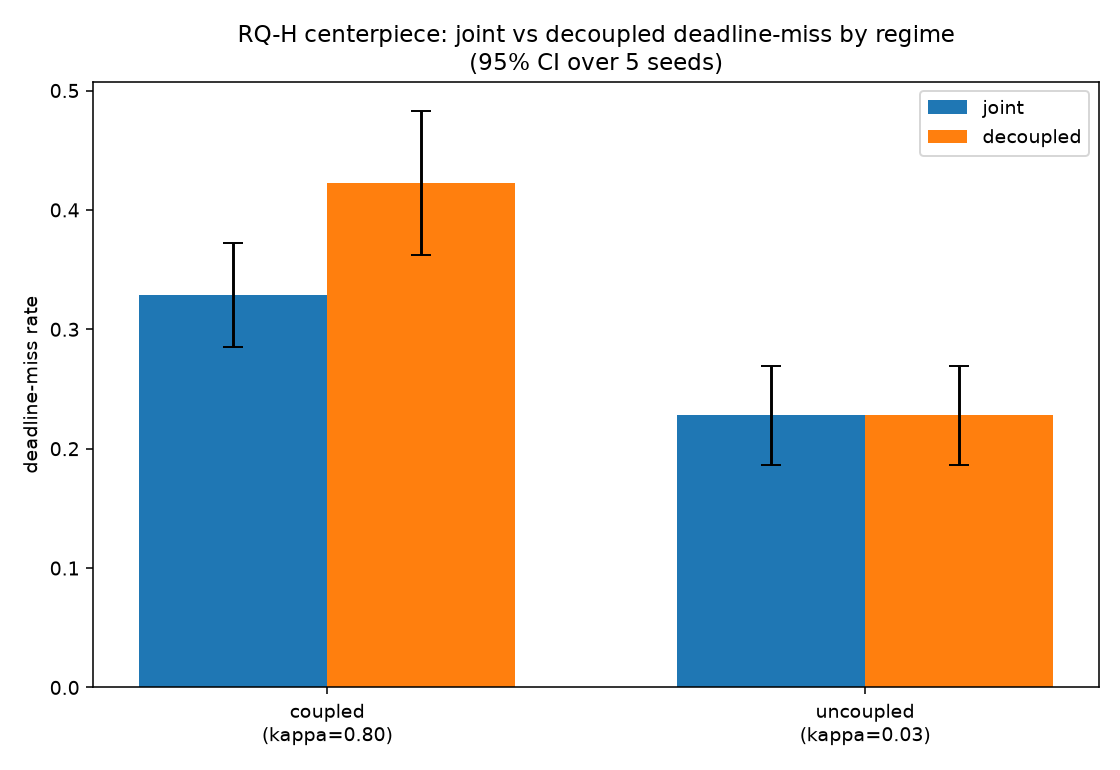
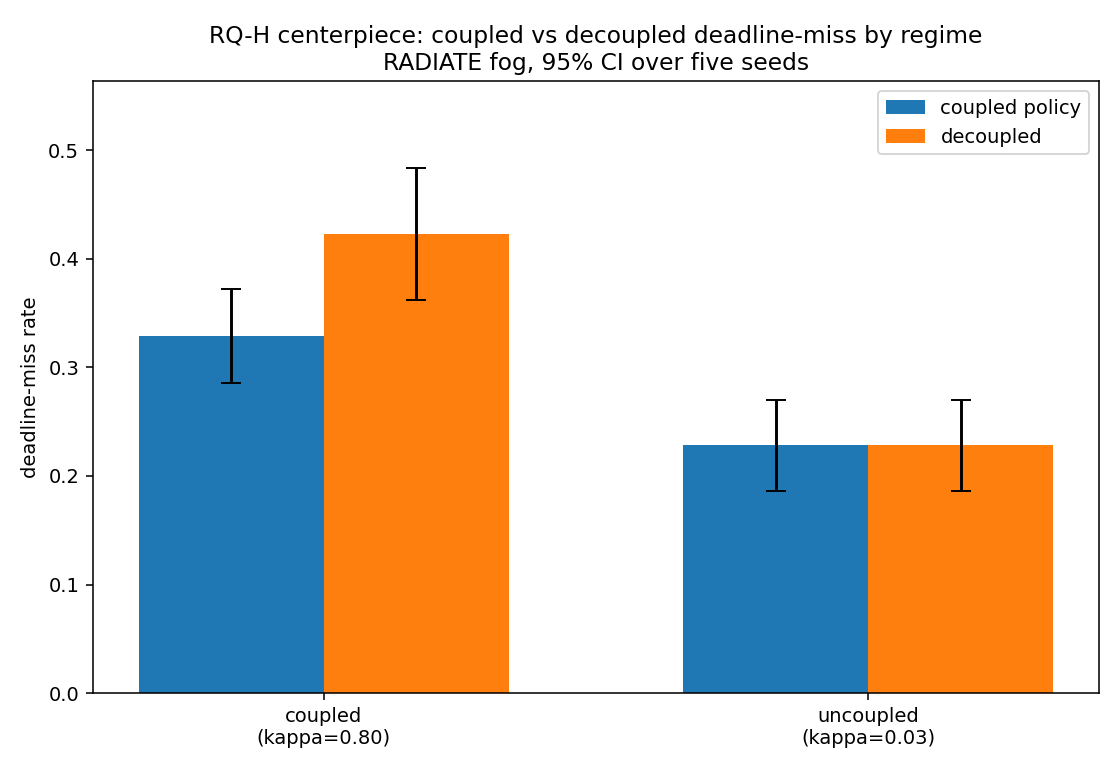
Clarify coupled policy terminology

diff --git a/paper/paper.tex b/paper/paper.tex
@@ -22,8 +22,8 @@
 
 \begin{document}
 
-\title{Belief-Space Perception Routing: Coupling Sensor-Fault\\
-and Compute-Contention Beliefs under Inference Deadlines}
+\title{Coupled Belief-Space Routing for Sensor Faults and\\
+Compute Contention under Inference Deadlines}
 
 \author{
   \IEEEauthorblockN{Sparsh Roy}
@@ -59,7 +59,7 @@ inference configuration.
 We evaluate on three real datasets and two camera geometries:
 TartanDrive off-road driving, RADIATE rain/snow/fog/night, and
 WoodScape fisheye soiling, with five seeds and 95\% confidence
-intervals. When faults and contention are coupled, the joint router
+intervals. Under the imposed coupled regimes, the coupled router
 reduces deadline misses by $1.1$ to $9.4$ percentage points,
 significant in five of six fault-bearing conditions. Fog is the
 largest case: faults are rare, but severe enough to make the
@@ -70,7 +70,8 @@ about as well as the noisy-OR policy, which places the contribution
 in the coupling signal rather than its functional form. Experiments
 ran on an Apple~M5; since the deadline is calibrated per device, we
 report relative deadline-miss changes rather than absolute latency.
-Code and data are released.%
+Code, configurations, processed outputs, and data-acquisition
+instructions are released.%
 \footnote{Repository: \url{https://github.com/VihanAggarwal/belief-space-perception-routing}}
 \end{abstract}
 
@@ -127,7 +128,7 @@ data loading, belief estimation, routing, and statistical analysis.
 
 The main result is shown in Fig.~\ref{fig:summary}. When sensor
 fault and compute contention are coupled, modeling the link reduces
-deadline misses. The size of the reduction follows how much the
+deadline misses. The size of the reduction appears to follow how much the
 degradation stresses the deadline, not simply how often faults
 occur. Fog is the clearest example: only $1.9\%$ of frames are
 faulted, but those episodes are severe enough that coupling saves
@@ -145,15 +146,16 @@ night, but hurts the fast flicker of rain droplets.
   \centering
   \includegraphics[width=\columnwidth]{fig_rqh_summary.png}
   \caption{Headline result (RQ-H). Reduction in deadline-miss rate
-  of the joint policy over the decoupled baseline, by condition,
+  of the coupled policy over the decoupled baseline, by condition,
   with 95\% CIs over five seeds. Filled circles: coupled regime,
   CI excludes zero. Square: coupled but not significant (snow).
   Grey crosses: the matched uncoupled control, exactly $0.0$\,pp in
   every case. TartanDrive appears twice: the full trajectory (no
   natural faults) is a clean negative control at $0.0$\,pp, while
   its high-degradation off-road segment is a significant $+3.0$\,pp.
-  The benefit tracks fault severity, not frequency: fog has the
-  fewest faults yet the largest effect.}
+  The condition-level pattern is more consistent with
+  deadline-binding degradation severity than with fault frequency
+  alone.}
   \label{fig:summary}
 \end{figure}
 
@@ -208,7 +210,7 @@ for embedded radar. These methods adapt computation, but they do
 not model runtime contention as a latent state tied to sensor
 health.
 
-\subsection{Joint Fault and Resource Modeling}
+\subsection{Coupled Fault and Resource Modeling}
 
 PRAM-R \cite{pramr2025} is the closest concurrent work: it routes
 modalities with an LLM-guided reliability mechanism, but it does not
@@ -382,7 +384,7 @@ they form the contention probability $p_{\text{cont}}^t$:
 \textbf{Decoupled}: $p_{\text{cont}}^t = b_c^t$ (compute belief
 alone).
 
-\textbf{Joint} (noisy-OR):
+\textbf{Coupled} (noisy-OR):
 \begin{equation}
   p_{\text{cont}}^t = 1 - (1 - b_c^t)\,(1 - \kappa\, b_f^t)
   \label{eq:noisyor}
@@ -407,7 +409,7 @@ evaluate abstention separately against an oracle.
 \subsection{Evaluation Policies}
 
 \begin{itemize}
-  \item \textbf{CoupledPolicy} (``joint''): noisy-OR coupling
+  \item \textbf{CoupledPolicy}: noisy-OR coupling
     (Eq.~\eqref{eq:noisyor}), $\kappa$ fit on calibration draw.
   \item \textbf{DecoupledPolicy}: compute belief only, same
     feasibility set.
@@ -559,10 +561,10 @@ dev-environment (Apple M5/MPS).}
 \end{tabular}
 \end{table}
 
-\subsubsection{RQ-H: Joint vs.\ Decoupled (Headline)}
+\subsubsection{RQ-H: Coupled vs.\ Decoupled (Headline)}
 
 Table~\ref{tab:rqh} and Fig.~\ref{fig:summary} give the main
-result. In the coupled regime, the joint policy lowers
+result. In the coupled regime, the coupled policy lowers
 deadline-miss rate in every fault-bearing condition. The reduction
 is significant in five of six: the off-road segment, rain, fog,
 night, and soiling. Snow is positive in point estimate, but its CI
@@ -577,8 +579,8 @@ scheduled independently. Fig.~\ref{fig:centerpiece} shows the
 per-condition view for fog, the strongest case.
 
 \begin{table*}[htbp]
-\caption{RQ-H. Deadline-miss rate, joint vs.\ decoupled, coupled
-regime. $\Delta = $ miss-rate reduction (decoupled $-$ joint), pp,
+\caption{RQ-H. Deadline-miss rate, coupled vs.\ decoupled, coupled
+regime. $\Delta = $ miss-rate reduction (decoupled $-$ coupled), pp,
 with 95\% CI; $^\ast$ = CI excludes zero. $r$ is the measured
 fault--contention correlation in the coupled regime; $\kappa$ is
 the fitted coupling coefficient. Every uncoupled control yields
@@ -591,7 +593,7 @@ $0.0$\,pp.}
 \toprule
 \textbf{Track} & \textbf{Condition} & \textbf{Frames} &
 \textbf{Fault \%} & \textbf{$r$} & \textbf{$\kappa$} &
-\textbf{Joint miss} & \textbf{Decoup.\ miss} &
+\textbf{Cpl.\ miss} & \textbf{Decoup.\ miss} &
 \textbf{$\Delta$ (pp)} & \textbf{Uncoupled $\Delta$} \\
 \midrule
 A & TartanDrive (full, clean) & 1198 & 0.0  & --   & --   & --    & --    & $0.00$ & $0.00$ \\
@@ -609,9 +611,9 @@ C & WoodScape soiling   & 3303 & 8.1  & 0.56 & 0.80 & 0.256 & 0.271 & $+1.56\ [1
   \centering
   \includegraphics[width=\columnwidth]{fig_rqh_fog.png}
   \caption{Per-condition RQ-H centerpiece (RADIATE fog, the
-  strongest effect). Joint vs.\ decoupled deadline-miss across five
+  strongest effect). Coupled vs.\ decoupled deadline-miss across five
   seeds in the coupled regime, with the uncoupled control. The
-  joint policy anticipates rare but severe fog episodes that make
+  coupled policy anticipates rare but severe fog episodes that make
   the reference config infeasible under contention.}
   \label{fig:centerpiece}
 \end{figure}
@@ -626,8 +628,8 @@ change fewer routing decisions. This is the regime where routing
 matters most: degradation is severe enough to bind the deadline.
 
 The most severe condition also shows the tradeoff. On rain, night,
-and soiling, joint and decoupled task accuracy are nearly matched
-(rain: $0.855$ vs.\ $0.857$). On fog, the joint policy gives up
+and soiling, coupled and decoupled task accuracy are nearly matched
+(rain: $0.855$ vs.\ $0.857$). On fog, the coupled policy gives up
 task accuracy ($0.861$ vs.\ $0.954$) to cut misses by $9.4$\,pp,
 because it downshifts before predicted contention. We therefore
 treat deadline-miss as the primary metric: in a deadline-controlled
@@ -653,7 +655,7 @@ the accuracy cost cancels it in expected on-time accuracy.
 $U=\frac{1}{T}\sum_t a_t\mathbf{1}[\ell_t\le D]$ (per-frame on-time
 utility: each frame scores its accuracy if on time, zero if late).
 $\Delta U$
-(joint $-$ decoupled, pp) with paired 95\% CI; $^\ast$ excludes
+(coupled $-$ decoupled, pp) with paired 95\% CI; $^\ast$ excludes
 zero. All point estimates are nonnegative.}
 \label{tab:utility}
 \centering
@@ -661,7 +663,7 @@ zero. All point estimates are nonnegative.}
 \setlength{\tabcolsep}{2.5pt}
 \begin{tabular}{lcccc}
 \toprule
-\textbf{Condition} & \textbf{$U$ jnt} & \textbf{$U$ dec} &
+\textbf{Condition} & \textbf{$U$ cpl} & \textbf{$U$ dec} &
 \textbf{$\Delta U$ (pp)} & \textbf{95\% CI} \\
 \midrule
 TartanDrive off-road & 0.628 & 0.601 & $+2.67^\ast$ & $[2.16, 3.17]$ \\
@@ -681,8 +683,8 @@ rule-based baseline:
 $p_{\text{cont}}^t = \max(b_c^t,\,\mathbf{1}[b_f^t > 0.5])$. This
 hard union downshifts whenever either belief is high. As shown in
 Table~\ref{tab:baseline}, the threshold rule performs similarly to
-the noisy-OR joint policy on every condition. The
-joint$-$threshold difference stays within $\pm0.5$\,pp and every CI
+the noisy-OR coupled policy on every condition. The
+coupled$-$threshold difference stays within $\pm0.5$\,pp and every CI
 includes zero, while both coupled methods beat the decoupled
 baseline by nearly the same amount. We do not claim formal
 equivalence; an equivalence test with a $\pm1$\,pp margin is
@@ -699,16 +701,40 @@ beliefs, compute belief, and deadline. Supervision comes from
 per-frame oracle config labels. Each track is split temporally, with
 the first $70\%$ of frames for training and the last $30\%$ held out,
 and no frame shared. On held-out frames, the MLP is competitive but
-inconsistent: lower deadline-miss on three tracks and higher on
-four, with high variance on short single-sequence traces. We report
-it as a baseline rather than a contribution. Across observation
-noise levels, the joint$-$threshold gap remains within
+inconsistent across the seven track-level sequence splits in
+Table~\ref{tab:mlp}: lower deadline-miss on three splits and higher
+on four. We report it as a baseline rather than a contribution.
+Across observation noise levels, the coupled$-$threshold gap remains within
 $\pm1.2$\,pp, n.s., for noise $\sigma$ up to $0.75$ on fog and rain.
 
 \begin{table}[htbp]
+\caption{Learned-router audit. The MLP uses the same belief features
+as the coupled policy and is trained on temporally split oracle
+labels. $\Delta$ = MLP $-$ coupled deadline-miss rate, pp;
+$^\ast$ = paired CI excludes zero.}
+\label{tab:mlp}
+\centering
+\scriptsize
+\setlength{\tabcolsep}{3pt}
+\begin{tabular}{lccc}
+\toprule
+\textbf{Split} & \textbf{Cpl.} & \textbf{MLP} & \textbf{$\Delta$ (pp)} \\
+\midrule
+Fog      & 0.164 & 0.167 & $+0.22$ \\
+Night    & 0.427 & 0.169 & $-25.78^\ast$ \\
+Rain     & 0.000 & 0.311 & $+31.11^\ast$ \\
+Snow     & 0.289 & 0.324 & $+3.56$ \\
+Soiling  & 0.301 & 0.339 & $+3.79^\ast$ \\
+A-full   & 0.340 & 0.204 & $-13.56$ \\
+A-seg.   & 0.422 & 0.222 & $-20.00^\ast$ \\
+\bottomrule
+\end{tabular}
+\end{table}
+
+\begin{table}[htbp]
 \caption{Deadline-miss rate (coupled regime): a simple threshold
-rule performs similarly to the noisy-OR joint policy.
-$\Delta$(J$-$thr) is the joint advantage over the threshold rule
+rule performs similarly to the noisy-OR coupled policy.
+$\Delta$(Cpl$-$thr) is the coupled-policy advantage over the threshold rule
 (pp, 95\% CI); all include zero (no detectable difference).}
 \label{tab:baseline}
 \centering
@@ -717,7 +743,7 @@ $\Delta$(J$-$thr) is the joint advantage over the threshold rule
 \begin{tabular}{lcccc}
 \toprule
 \textbf{Cond.} & \textbf{Decoup.} & \textbf{Threshold} &
-\textbf{Joint} & \textbf{$\Delta$(J$-$thr)} \\
+\textbf{Cpl.} & \textbf{$\Delta$(Cpl$-$thr)} \\
 \midrule
 A-seg   & 0.279 & 0.249 & 0.249 & $+0.0\ [-0.0,0.0]$ \\
 rain    & 0.244 & 0.233 & 0.233 & $+0.1\ [-0.1,0.3]$ \\
@@ -755,7 +781,7 @@ real; per-condition deadline sweeps remain future work.
 
 \begin{table}[htbp]
 \caption{Deadline-strictness sweep (RADIATE fog, coupled regime).
-Multiplier scales the self-calibrated deadline. The joint advantage
+Multiplier scales the self-calibrated deadline. The coupled-policy advantage
 peaks where the reference config is borderline-feasible.}
 \label{tab:deadline}
 \centering
@@ -797,7 +823,7 @@ zero benefit.
 \begin{figure}[t]
   \centering
   \includegraphics[width=\columnwidth]{fig_phase_diagram.png}
-  \caption{RQ-H phase diagram (RADIATE fog): joint$-$decoupled
+  \caption{RQ-H phase diagram (RADIATE fog): coupled$-$decoupled
   deadline-miss reduction over a coupling-strength $\times$
   fault-onset-rate grid of controlled regimes. The bottom row
   ($\kappa{=}0$) is the no-coupling control and is exactly zero
@@ -985,7 +1011,7 @@ We built a deadline-aware perception router that estimates
 sensor-fault belief and compute-contention belief with separate HMMs
 and couples them at decision time. Across three real datasets and
 two camera geometries, coupling reduced deadline misses by $1.1$ to
-$9.4$ points when the two failures were correlated. The gain was
+$9.4$ points when contention was scheduled to depend on fault onset. The gain was
 zero in every matched uncoupled control and zero on a fault-free
 trajectory. The benefit appears to track how severely a degradation
 strains the deadline, not just how often faults occur, and a simple
